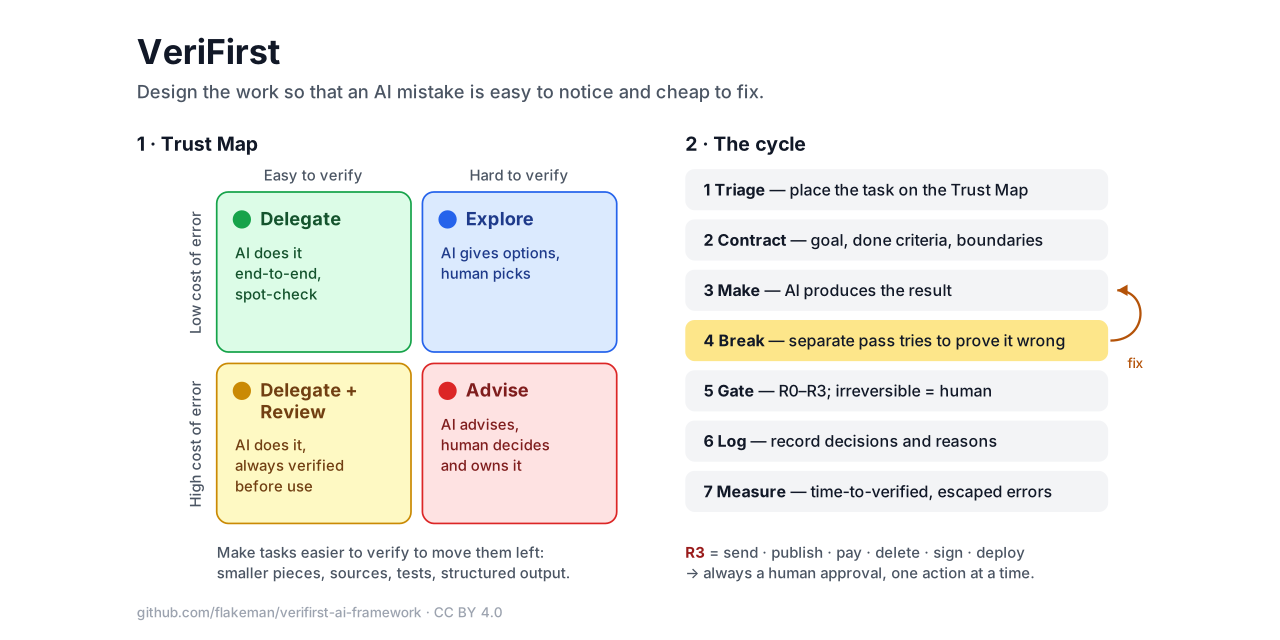
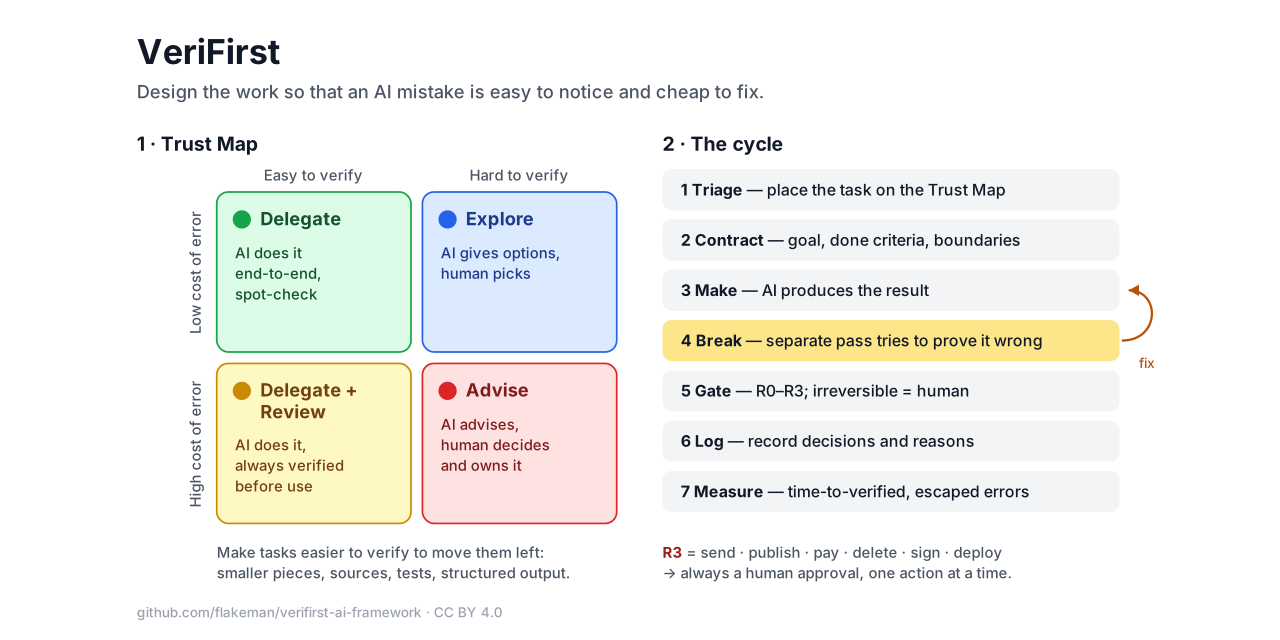
Fix diagram text overflow, add Russian diagram to README, Russian social preview
- Widen the cycle boxes by 30px and shorten step 7 in the Russian diagram
- README.md: collapsible Russian version of the diagram
- assets/social-preview-ru.png for Russian-language posts; regenerate social-preview.png

Claude-Session: https://claude.ai/code/session_01UhPu4ASCeToyDYsbEJwwD9

diff --git a/README.md b/README.md
@@ -24,6 +24,15 @@ Everything else follows from it.
 
 ![VeriFirst: Trust Map and the cycle](assets/verifirst-en.svg)
 
+<details>
+<summary>🇷🇺 Схема на русском · Russian version of the diagram</summary>
+
+![VeriFirst: Карта доверия и цикл](assets/verifirst-ru.svg)
+
+Полное описание на русском — в [README.ru.md](README.ru.md).
+
+</details>
+
 ## Start here
 
 | If you want to… | Open |
